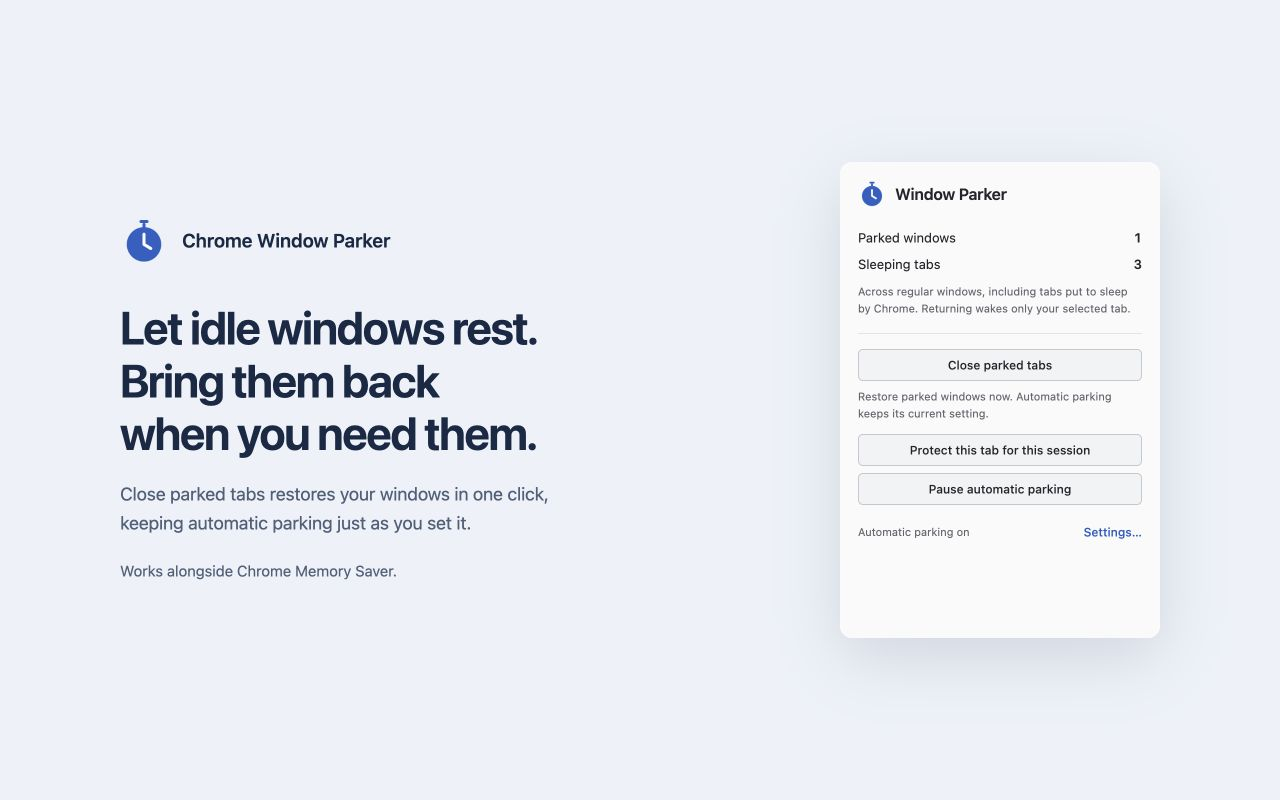
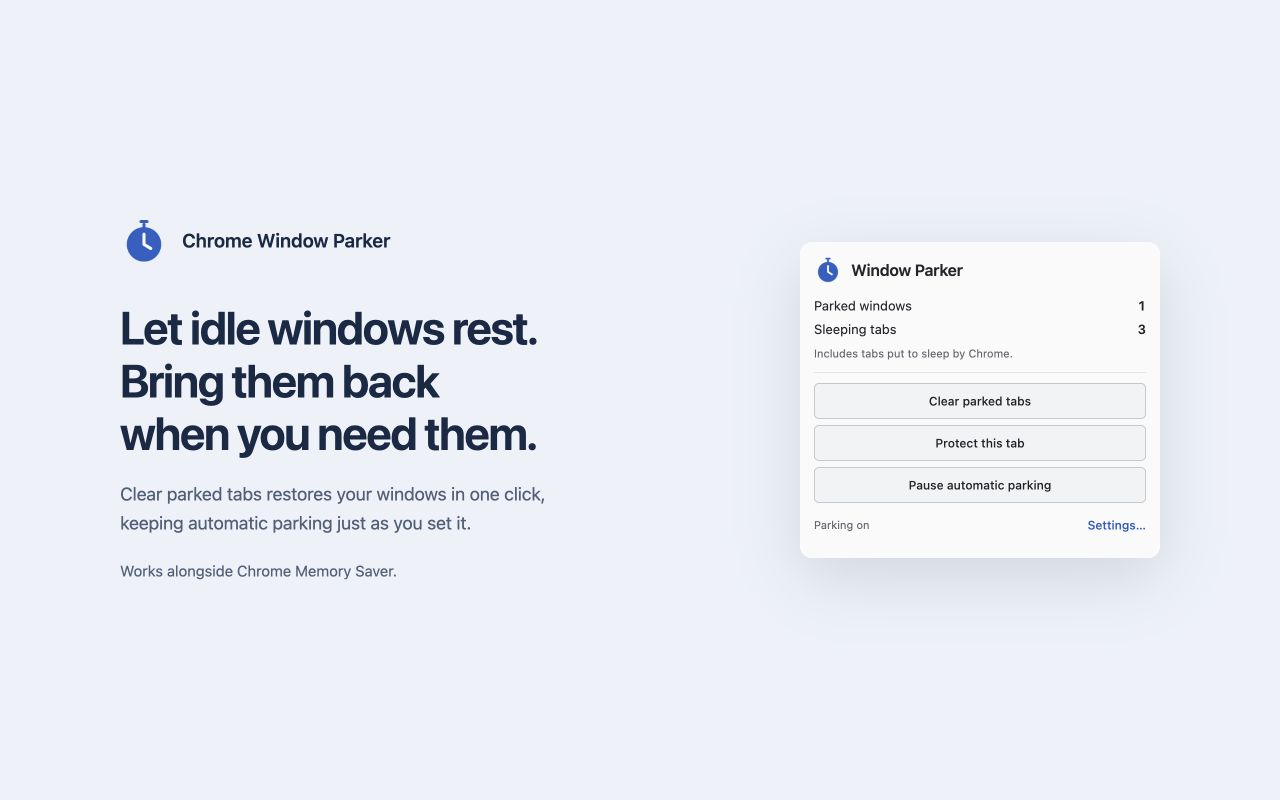
Polish toolbar popup for v1.4.1

diff --git a/tests/browser/popup-preview.html b/tests/browser/popup-preview.html
@@ -1,3 +1,3 @@
 <!doctype html><html lang="en"><head><meta charset="utf-8"><meta name="viewport" content="width=device-width,initial-scale=1"><title>Window Parker toolbar preview</title><link rel="icon" href="/icons/parker-timer-32.png"><style>
-:root{font:18px/1.6 -apple-system,BlinkMacSystemFont,'Segoe UI',sans-serif;color:#172946;background:#edf2f9}*{box-sizing:border-box}body{margin:0;min-height:100vh;display:grid;place-items:center}.layout{width:1040px;display:grid;grid-template-columns:1fr 320px;gap:120px;align-items:center}.brand{display:flex;align-items:center;gap:14px;font-size:19px;font-weight:600}.brand img{width:48px;height:48px}h1{font-size:46px;line-height:1.15;letter-spacing:-1.5px;margin:36px 0 20px;font-weight:650}p{color:#4e607a;margin:0;max-width:470px}.detail{font-size:15px;margin-top:22px}iframe{display:block;width:320px;height:476px;border:0;border-radius:12px;box-shadow:0 20px 65px #20395826;background:#fafafa}@media(max-width:800px){.layout{width:90%;gap:32px;grid-template-columns:1fr}.brand,h1,p{text-align:center}iframe{margin:auto}}
-</style></head><body><main class="layout"><section><div class="brand"><img src="/icons/parker-timer-128.png" alt="">Chrome Window Parker</div><h1>Let idle windows rest.<br>Bring them back<br>when you need them.</h1><p>Close parked tabs restores your windows in one click, keeping automatic parking just as you set it.</p><p class="detail">Works alongside Chrome Memory Saver.</p></section><iframe src="/popup.html" title="Window Parker toolbar popup"></iframe></main></body></html>
+:root{font:18px/1.6 -apple-system,BlinkMacSystemFont,'Segoe UI',sans-serif;color:#172946;background:#edf2f9}*{box-sizing:border-box}body{margin:0;min-height:100vh;display:grid;place-items:center}.layout{width:1040px;display:grid;grid-template-columns:1fr 360px;gap:120px;align-items:center}.brand{display:flex;align-items:center;gap:14px;font-size:19px;font-weight:600}.brand img{width:48px;height:48px}h1{font-size:46px;line-height:1.15;letter-spacing:-1.5px;margin:36px 0 20px;font-weight:650}p{color:#4e607a;margin:0;max-width:470px}.detail{font-size:15px;margin-top:22px}iframe{display:block;width:360px;height:316px;border:0;border-radius:12px;box-shadow:0 20px 65px #20395826;background:#fafafa}@media(max-width:800px){.layout{width:90%;gap:32px;grid-template-columns:1fr}.brand,h1,p{text-align:center}iframe{margin:auto}}
+</style></head><body><main class="layout"><section><div class="brand"><img src="/icons/parker-timer-128.png" alt="">Chrome Window Parker</div><h1>Let idle windows rest.<br>Bring them back<br>when you need them.</h1><p>Clear parked tabs restores your windows in one click, keeping automatic parking just as you set it.</p><p class="detail">Works alongside Chrome Memory Saver.</p></section><iframe src="/popup.html" title="Window Parker toolbar popup"></iframe></main></body></html>

diff --git a/ui.css b/ui.css
@@ -72,17 +72,18 @@ button.small { min-height: 29px; font-size: 12px; padding: 3px 10px; }
 .previous-title { font-size: 14px; line-height: 1.5; font-weight: 500; margin: 14px 0 18px; overflow-wrap: anywhere; }
 .parked #detail { margin-top: 18px; }
 .quiet-note { margin-top: 5px; }
-.popup { width: 320px; max-width: 100vw; padding: 18px; }
-.popup h1 { font-size: 16px; letter-spacing: -.2px; }
+/* An intrinsic width avoids depending on Chrome's initial popup viewport. */
+html.popup-root { width: 360px; min-width: 360px; }
+.popup { width: 360px; padding: 14px; }
+.popup h1 { font-size: 16px; letter-spacing: -.2px; white-space: nowrap; }
 .popup .app-header { gap: 9px; }
-.stats { margin: 20px 0 9px; }
-.stats > div { display: flex; justify-content: space-between; gap: 12px; margin: 7px 0; }
-.stats dd { margin: 0; font-weight: 600; font-variant-numeric: tabular-nums; }
-.stats-help { font-size: 11px; }
-.popup-actions { display: grid; gap: 7px; border-top: 1px solid var(--line); padding-top: 15px; margin-top: 16px; }
-.popup-actions button { font-size: 12px; }
-.popup-actions > .hint { font-size: 11px; margin-bottom: 5px; }
-.popup-footer { display: flex; align-items: center; justify-content: space-between; gap: 8px; margin-top: 13px; }
+.popup .stats { margin: 12px 0 6px; }
+.popup .stats > div { display: flex; justify-content: space-between; gap: 12px; margin: 4px 0; }
+.popup .stats dd { margin: 0; font-weight: 600; font-variant-numeric: tabular-nums; }
+.popup .stats-help { font-size: 11px; white-space: nowrap; }
+.popup-actions { display: grid; gap: 6px; border-top: 1px solid var(--line); padding-top: 10px; margin-top: 10px; }
+.popup-actions button { height: 36px; padding: 6px 12px; font-size: 12px; white-space: nowrap; }
+.popup-footer { display: flex; align-items: center; justify-content: space-between; gap: 8px; margin-top: 8px; white-space: nowrap; }
 .popup-footer .hint { font-size: 11px; }
 button.text-button { padding: 2px 0 2px 8px; border: 0; min-height: 28px; background: none; color: var(--accent); font-size: 12px; }
 .popup #status:empty { display: none; }

diff --git a/popup.html b/popup.html
@@ -1,8 +1,8 @@
 <!doctype html>
-<html lang="en"><head><meta charset="utf-8"><meta name="viewport" content="width=device-width,initial-scale=1"><title>Window Parker</title><link rel="icon" href="icons/parker-timer-32.png"><link rel="stylesheet" href="ui.css"><script type="module" src="popup.js"></script></head>
+<html lang="en" class="popup-root"><head><meta charset="utf-8"><meta name="viewport" content="width=device-width,initial-scale=1"><title>Window Parker</title><link rel="icon" href="icons/parker-timer-32.png"><link rel="stylesheet" href="ui.css"><script type="module" src="popup.js"></script></head>
 <body class="popup"><header class="app-header"><img src="icons/parker-timer-128.png" width="28" height="28" alt=""><h1>Window Parker</h1></header>
 <dl class="stats"><div><dt>Parked windows</dt><dd id="parkedCount">—</dd></div><div><dt>Sleeping tabs</dt><dd id="sleepingCount">—</dd></div></dl>
-<p class="hint stats-help">Across regular windows, including tabs put to sleep by Chrome. Returning wakes only your selected tab.</p>
-<div class="popup-actions"><button id="closeParked" disabled aria-describedby="closeHelp">Close parked tabs</button><p id="closeHelp" class="hint">Restore parked windows now. Automatic parking keeps its current setting.</p><button id="protect" disabled>Protect this tab for this session</button><button id="toggle" disabled>Pause automatic parking</button></div>
+<p class="hint stats-help">Includes tabs put to sleep by Chrome.</p>
+<div class="popup-actions"><button id="closeParked" disabled title="Returns parked windows to their normal tabs.">Clear parked tabs</button><button id="protect" disabled title="Protection lasts for this browser session.">Protect this tab</button><button id="toggle" disabled>Pause automatic parking</button></div>
 <div class="popup-footer"><span id="mode" class="hint">Checking status…</span><button class="text-button" id="options">Settings…</button></div>
 <p id="status" role="status" aria-live="polite"></p></body></html>

diff --git a/popup.js b/popup.js
@@ -12,9 +12,9 @@ async function refresh() {
   data = next; current = data.currentTab;
   $('parkedCount').textContent = data.windows.filter(w => w.parked).length;
   $('sleepingCount').textContent = data.windows.reduce((n, w) => n + w.sleeping, 0);
-  $('protect').textContent = current?.protected ? 'Remove this tab’s protection' : 'Protect this tab for this session';
-  $('toggle').textContent = data.enabled ? 'Pause automatic parking' : 'Enable automatic parking';
-  $('mode').textContent = data.enabled ? 'Automatic parking on' : 'Automatic parking paused';
+  $('protect').textContent = current?.protected ? 'Unprotect this tab' : 'Protect this tab';
+  $('toggle').textContent = data.enabled ? 'Pause automatic parking' : 'Resume automatic parking';
+  $('mode').textContent = data.enabled ? 'Parking on' : 'Parking paused';
   controls();
 }
 async function act(operation) {
@@ -30,8 +30,8 @@ async function act(operation) {
 $('closeParked').addEventListener('click', () => act(async () => {
   const result = await request('close-parked');
   $('status').textContent = result.remaining ?
-    `${result.closed} closed; ${result.remaining} still open. Try again when Chrome is ready.` :
-    result.closed ? `Closed ${result.closed} parking ${result.closed === 1 ? 'tab' : 'tabs'}.` : 'No parked tabs to close.';
+    `${result.closed} cleared; ${result.remaining} still open. Try again when Chrome is ready.` :
+    result.closed ? `Cleared ${result.closed} parking ${result.closed === 1 ? 'tab' : 'tabs'}.` : 'No parked tabs to clear.';
   if (result.failed) $('status').classList.add('error');
 }));
 $('protect').addEventListener('click', () => act(async () => {

diff --git a/tests/popup.test.js b/tests/popup.test.js
@@ -15,12 +15,12 @@ test('popup keeps close available for paused inactive leftovers and refreshes co
  try{
   await import(`../popup.js?test=${Math.random()}`);await flush();
   assert.equal(el('closeParked').disabled,false);assert.equal(el('parkedCount').textContent,0);
-  assert.equal(el('toggle').textContent,'Enable automatic parking');
+  assert.equal(el('toggle').textContent,'Resume automatic parking');
   const action=el('closeParked').click();await flush();assert(el('closeParked').disabled);assert(el('toggle').disabled);
   await el('closeParked').click();assert.equal(messages.filter(m=>m==='close-parked').length,1);
   finish();await action;
   assert(el('closeParked').disabled);assert.equal(el('sleepingCount').textContent,2);assert.equal(el('toggle').disabled,false);
-  assert.equal(el('mode').textContent,'Automatic parking paused');assert.equal(el('status').textContent,'Closed 1 parking tab.');
+  assert.equal(el('mode').textContent,'Parking paused');assert.equal(el('status').textContent,'Cleared 1 parking tab.');
   assert(!messages.includes('configure'));
  }finally{Object.assign(globalThis,original);}
 });

diff --git a/docs/BEHAVIOR.md b/docs/BEHAVIOR.md
@@ -10,7 +10,7 @@
 - A two-second dwell uses a short worker timer plus a recovery alarm. The normal worker idle timeout exceeds the maximum configurable dwell (20 seconds). If the worker is interrupted, the next worker restarts a full dwell; it never assumes an old partial dwell proves focus. A timer delayed by over 1.5 seconds beyond its deadline also restarts the dwell, preventing sleep time from counting as attentive use. Restoration can therefore be later than the selected duration.
 - If focus changes during a parking pass, remaining work is cancelled. Operations re-read the live window and each tab before mutation. Browser checks and mutations are not one atomic operation; another extension or a last-instant user action can race them. The code still never asks Chrome to focus a window.
 - The parking page loads only packaged files. No site favicon is fetched. The page displays the saved previous title and current sleeping-tab count. Its document title is “Parked · previous tab title”, read from that parking cycle's saved record. Counts refresh on relevant tab events while the page is open, with short burst coalescing and no background polling.
-- A window with one real tab works normally. Automatic restoration leaves a parking-only window open; the explicit Close parked tabs action first creates a blank tab in that window. A missing previous tab falls back to a real tab near its saved index.
+- A window with one real tab works normally. Automatic restoration leaves a parking-only window open; the explicit Clear parked tabs action first creates a blank tab in that window. A missing previous tab falls back to a real tab near its saved index.
 - Incognito is explicitly unsupported and disabled in the manifest. Popup/app/devtools windows are ignored. Split-view tabs are excluded where Chrome exposes their split-view ID.
 
 ## Safety and exclusions
@@ -41,7 +41,7 @@ Keep Memory Saver at **Maximum** or your preferred level. Window Parker does not
 
 Before discarding, Window Parker re-reads the current tab and skips `discarded: true`. If the selected real tab is already sleeping before parking begins, the window is left untouched. If Chrome wins a concurrent discard race, Window Parker re-reads state and accepts the result without retrying, activating or reloading the tab. An independent `discarded` update never triggers restoration. Returning after dwell activates only the saved tab (or the documented missing-tab fallback); sleeping neighbors remain asleep.
 
-The popup's **Close parked tabs** action finds actual parking-page URLs, including inactive leftovers. It works while automation is paused, leaves the setting unchanged, restores a real tab in each affected window and starts a fresh inactivity interval. It never requests window focus or relocation. If a window has no real tabs, it creates an inactive `about:blank` tab in that same window, confirms a real tab is active, then removes its own pages one at a time. A user-selected real tab takes priority over a remembered target. Unavailable or busy tabs do not prevent other windows from being processed; the popup reports any pages still open.
+The popup's **Clear parked tabs** action finds actual parking-page URLs, including inactive leftovers. It works while automation is paused, leaves the setting unchanged, restores a real tab in each affected window and starts a fresh inactivity interval. It never requests window focus or relocation. If a window has no real tabs, it creates an inactive `about:blank` tab in that same window, confirms a real tab is active, then removes its own pages one at a time. A user-selected real tab takes priority over a remembered target. Unavailable or busy tabs do not prevent other windows from being processed; the popup reports any pages still open.
 
 The popup reports **Parked windows** and **Sleeping tabs** across regular, non-incognito windows. Sleeping tabs are the current real tabs with Chrome's `discarded` flag, including tabs discarded by Chrome or another extension. Parking pages themselves are excluded. A window can have zero parking activity and several sleeping tabs: that is normal. No discard provenance or cumulative savings are claimed, tracked or persisted. Statistics are computed on demand; event listeners exist only in open extension pages. The full tab-title list is requested only when the individual-exclusion section is opened.
 

diff --git a/TESTING.md b/TESTING.md
@@ -1,6 +1,12 @@
 # Testing
 
-Validation date: 28 September 2026. Version 1.4.0.
+Validation date: 28 September 2026. Version 1.4.1.
+
+## v1.4.1 popup checks
+
+The popup renders in Chrome at 360 × 311 CSS pixels before status messages, with 36px action buttons. The title, controls, stats note and footer fit on one line. Synthetic-fixture checks cover Protect/Unprotect, Pause/Resume, keyboard clearing while paused, counter refresh and the disabled Clear state; no page-console errors were observed. The 128px header icon remains displayed at 28 CSS pixels for Retina resolution. Native installed-toolbar presentation still requires a manual check.
+
+This patch changes popup layout and wording only. The parking engine, background worker, permissions and data handling are unchanged from v1.4.0.
 
 ## Coverage
 
@@ -32,13 +38,13 @@ The preview command serves a loopback-only development fixture at `http://127.0.
 
 Use a disposable Chrome profile and saved test work. Record the Chrome, OS and extension versions. Start with a one-minute custom delay and two-second dwell, then repeat with production defaults. Close worker DevTools when testing lifecycle behavior.
 
-1. Load/reload version 1.4.0. Inspect the extension's Errors page and worker console for new errors, then close the inspector.
+1. Load/reload version 1.4.1. Inspect the extension's Errors page and worker console for new errors, then close the inspector.
 2. Save and reopen every setting type; reset and reopen again. Values must persist without errors.
 3. Park a window and inspect “Parked · previous tab title” in the tab strip and window-switching tools. Restore and confirm the parking page closes. Select a different real tab and park again; a newly created page must show the new saved title. Repeat after worker termination and Chrome session restoration. Window-switcher title display is controlled by Chrome/macOS and may differ between tools.
 4. Verify the parking tab stays unpinned at the end while parked, closes after successful restoration, and is recreated for the next cycle; the real tab order/groups/pins stay intact, and only the saved tab restores. There must be no unsolicited foreground or Space changes.
 5. With Memory Saver Maximum, record already-discarded backgrounds, park and restore, and check that those backgrounds stay asleep. Check live sleeping-tab counts without attributing ownership.
-6. Extract `dist/chrome-window-parker-v1.4.0.zip` and load that extracted folder in a disposable Chrome profile. Confirm no errors and the same behavior. Static package validation is not proof that Chrome loaded it successfully.
-7. Use **Close parked tabs** with multiple parked windows, then with automation paused. Confirm all parking pages close, real tabs and windows remain, the pause setting stays unchanged and no affected window parks again until its full delay passes. Repeat with inactive leftovers, a closed original target and a window containing only parking pages; the last case must leave one blank tab. Try while dragging a tab, then retry after releasing it.
+6. Extract `dist/chrome-window-parker-v1.4.1.zip` and load that extracted folder in a disposable Chrome profile. Confirm no errors and the same behavior. Static package validation is not proof that Chrome loaded it successfully.
+7. Use **Clear parked tabs** with multiple parked windows, then with automation paused. Confirm all parking pages close, real tabs and windows remain, the pause setting stays unchanged and no affected window parks again until its full delay passes. Repeat with inactive leftovers, a closed original target and a window containing only parking pages; the last case must leave one blank tab. Try while dragging a tab, then retry after releasing it.
 8. Run the broader scenarios below. Inspect the timer icon on actual light/dark Chrome toolbars, both normal and Retina displays, and at the store's 128-pixel size.
 
 | # | Scenario | Automated evidence | Live expected result / check |

diff --git a/PRIVACY.md b/PRIVACY.md
@@ -6,6 +6,6 @@ The extension reads tab URLs, titles and browser window/tab state to apply exclu
 
 It queries Chrome's download metadata solely to determine whether downloads are in progress, conservatively pausing parking while any are active. It does not retain download metadata or initiate, modify, open or delete downloads. Routine debug logs stay in Chrome's extension console and contain tab/window identifiers and operational reasons rather than browsing details. Unexpected API errors are also logged for diagnosis; review logs before sharing them.
 
-Data is not synchronized to a cloud service. Closing windows/parking tabs, including automatic removal after restoration and the Close parked tabs action, removes associated recovery records when observed; bounded abandoned records may remain after crashes. Reset settings resets settings, while individual session exclusions remain. Removing the extension removes its extension storage. Chrome and websites have their own privacy behavior, including normal network requests when a discarded website reloads.
+Data is not synchronized to a cloud service. Closing windows/parking tabs, including automatic removal after restoration and the Clear parked tabs action, removes associated recovery records when observed; bounded abandoned records may remain after crashes. Reset settings resets settings, while individual session exclusions remain. Removing the extension removes its extension storage. Chrome and websites have their own privacy behavior, including normal network requests when a discarded website reloads.
 
 Maintained by the GitHub account [montybwolfe](https://github.com/montybwolfe). Effective date: 28 September 2026. For privacy questions, use the [project issue tracker](https://github.com/montybwolfe/chrome-window-parker/issues). Do not include private browsing data in a public issue.

diff --git a/docs/WEB_STORE.md b/docs/WEB_STORE.md
@@ -1,6 +1,6 @@
 # Chrome Web Store submission
 
-Public listing copy and submission notes for Chrome Window Parker 1.4.0.
+Public listing copy and submission notes for Chrome Window Parker 1.4.1.
 
 ## Name
 
@@ -25,12 +25,12 @@ Window Parker is designed to work alongside Chrome Memory Saver. Chrome continue
 - Adjustable parking and restore delays
 - Protection for pinned and audio-playing tabs
 - Site and individual-tab exclusions
-- Close parked tabs across all windows in one click
+- Clear parked tabs across all windows in one click
 - Pause/resume control from the toolbar
 - Parked-window and sleeping-tab status
 - Local-only operation with no telemetry or tracking
 
-Use **Close parked tabs** to bring your windows back now, including while automation is paused. Your automatic parking setting stays unchanged.
+Use **Clear parked tabs** to bring your windows back now, including while automation is paused. Your automatic parking setting stays unchanged.
 
 ### Platform compatibility
 
@@ -92,10 +92,10 @@ Run:
 python3 scripts/package.py
 ```
 
-For version 1.4.0 this creates:
+For version 1.4.1 this creates:
 
 ```text
-dist/chrome-window-parker-v1.4.0.zip
+dist/chrome-window-parker-v1.4.1.zip
 ```
 
 Upload that prepared ZIP to the Chrome Web Store. The same package is attached to the matching GitHub Release.

diff --git a/README.md b/README.md
@@ -36,9 +36,9 @@ Requires **Chrome 120 or later**.
 
 Until the Chrome Web Store listing is available, download the latest prepared extension ZIP from [GitHub Releases](https://github.com/montybwolfe/chrome-window-parker/releases).
 
-For version 1.4.0, use:
+For version 1.4.1, use:
 
-`chrome-window-parker-v1.4.0.zip`
+`chrome-window-parker-v1.4.1.zip`
 
 Do **not** use GitHub's automatically generated “Source code (zip)” archive.
 
@@ -60,7 +60,7 @@ You can configure:
 - individual tab exclusions;
 - debug logging.
 
-Automation can also be paused from the toolbar popup. **Close parked tabs** restores all parked windows and removes their temporary parking pages, even while automation is paused. Each affected window gets a fresh inactivity interval. If a window contains only parking pages, a blank tab keeps it open.
+Automation can also be paused from the toolbar popup. **Clear parked tabs** restores all parked windows and removes their temporary parking pages, even while automation is paused. Each affected window gets a fresh inactivity interval. If a window contains only parking pages, a blank tab keeps it open.
 
 ## Chrome Memory Saver
 

diff --git a/store-listing/START-HERE.md b/store-listing/START-HERE.md
@@ -1,8 +1,8 @@
 # Chrome Web Store listing assets
 
-This folder contains the text and graphics prepared for the Chrome Web Store listing for version 1.4.0.
+This folder contains the text and graphics prepared for the Chrome Web Store listing for version 1.4.1.
 
-The extension package itself is separate. Upload **`chrome-window-parker-v1.4.0.zip`** from the matching GitHub Release (or the equivalent package generated in `dist/`). Do not upload this asset folder, the store-listing asset ZIP, or GitHub's automatically generated source archive as the extension package.
+The extension package itself is separate. Upload **`chrome-window-parker-v1.4.1.zip`** from the matching GitHub Release (or the equivalent package generated in `dist/`). Do not upload this asset folder, the store-listing asset ZIP, or GitHub's automatically generated source archive as the extension package.
 
 ## Product details
 

diff --git a/CHANGELOG.md b/CHANGELOG.md
@@ -1,3 +1,9 @@
+# 1.4.1
+
+- Make the toolbar popup wider and more compact, with single-line labels and 36px controls.
+- Rename the popup action to **Clear parked tabs** and shorten protection and status copy. Parking behavior is unchanged.
+- Update the popup store screenshot and matching terminology.
+
 # 1.4.0
 
 - Add **Close parked tabs** to restore all parked windows and remove temporary parking pages, including inactive leftovers and while automation is paused.
